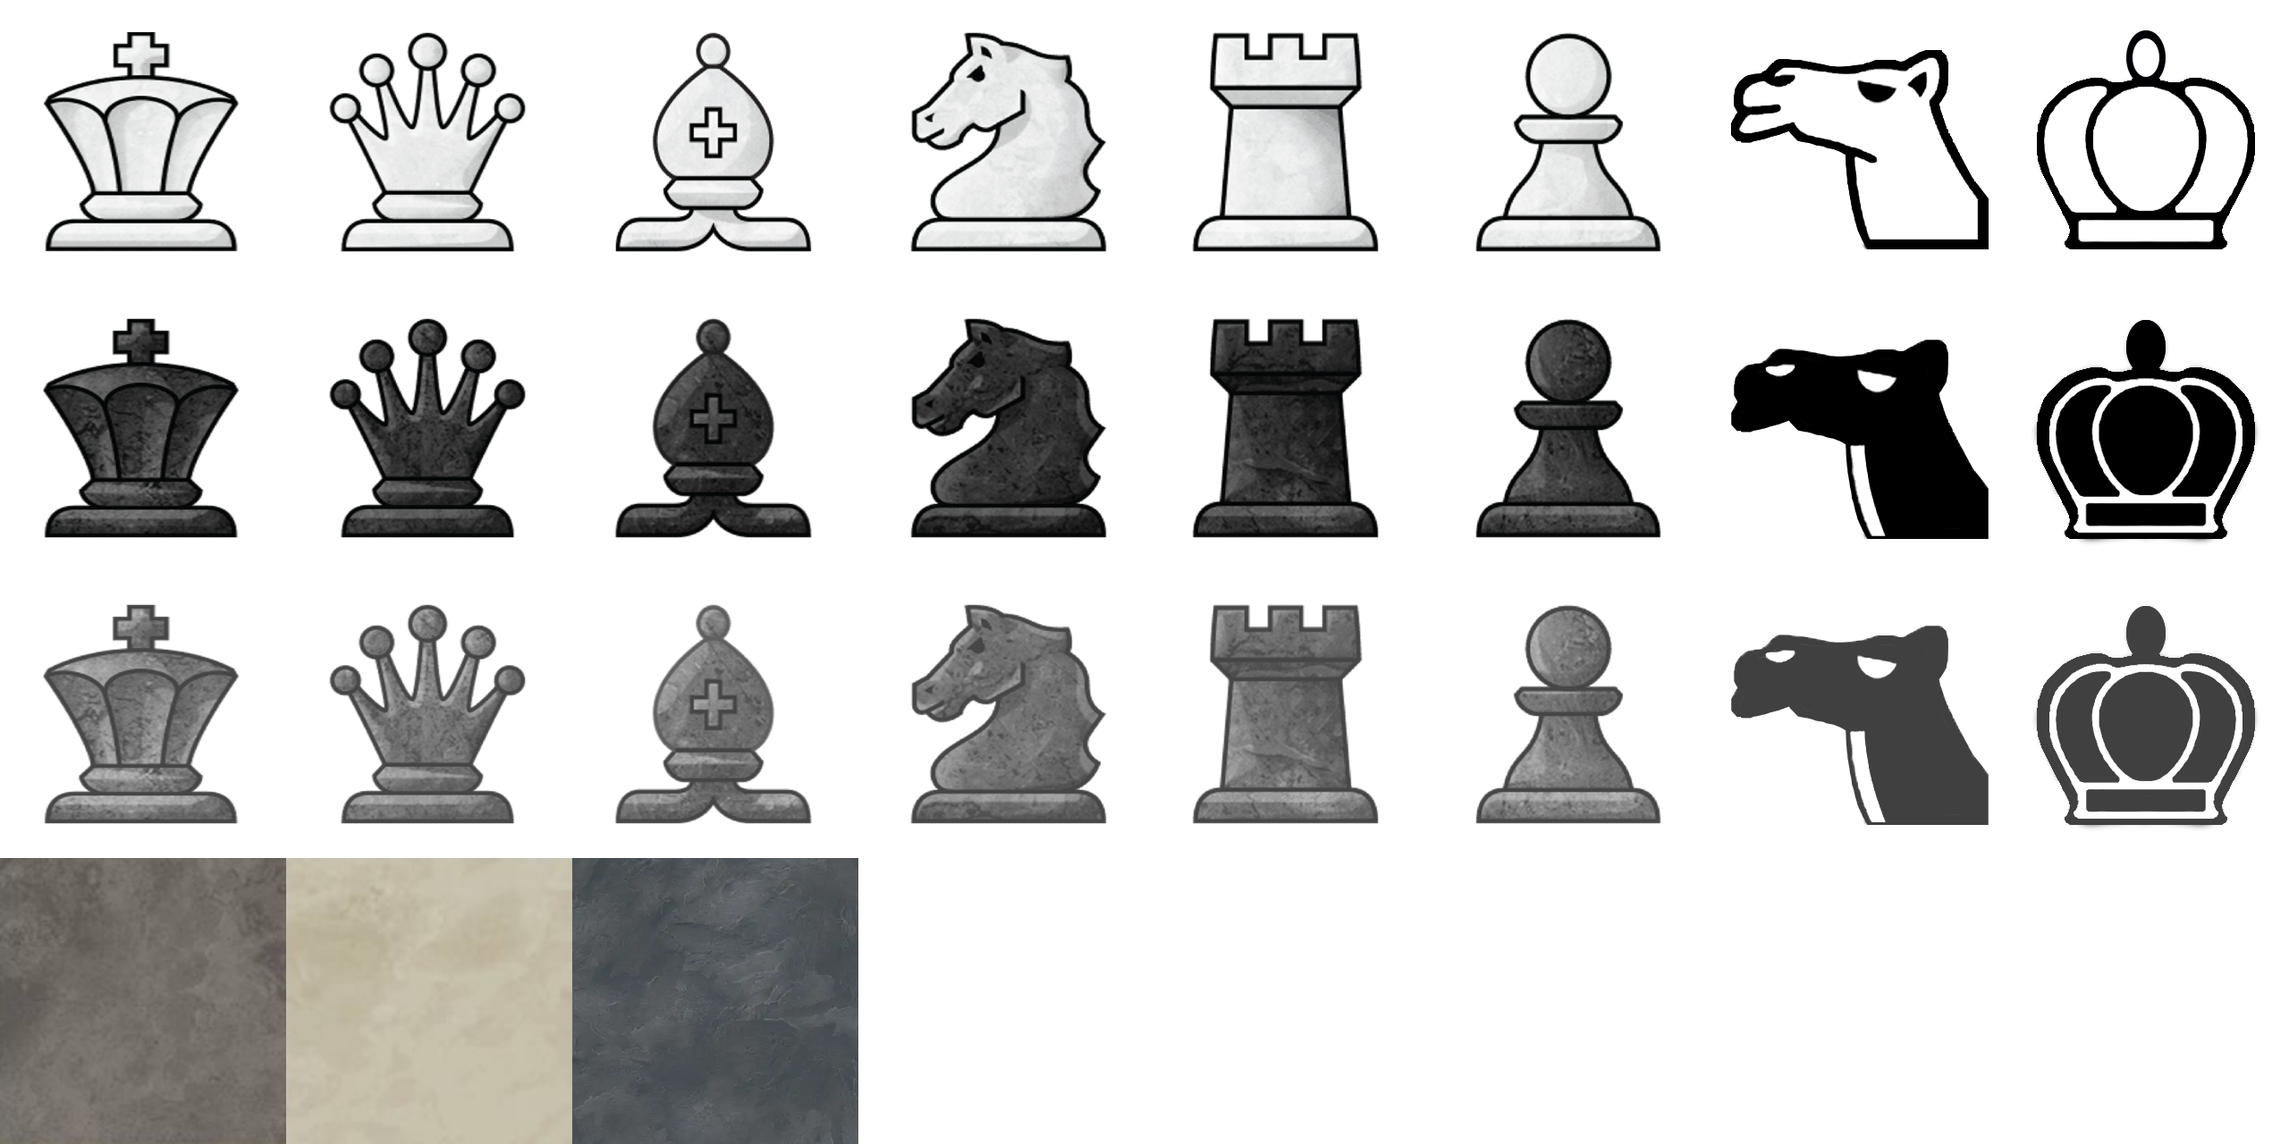
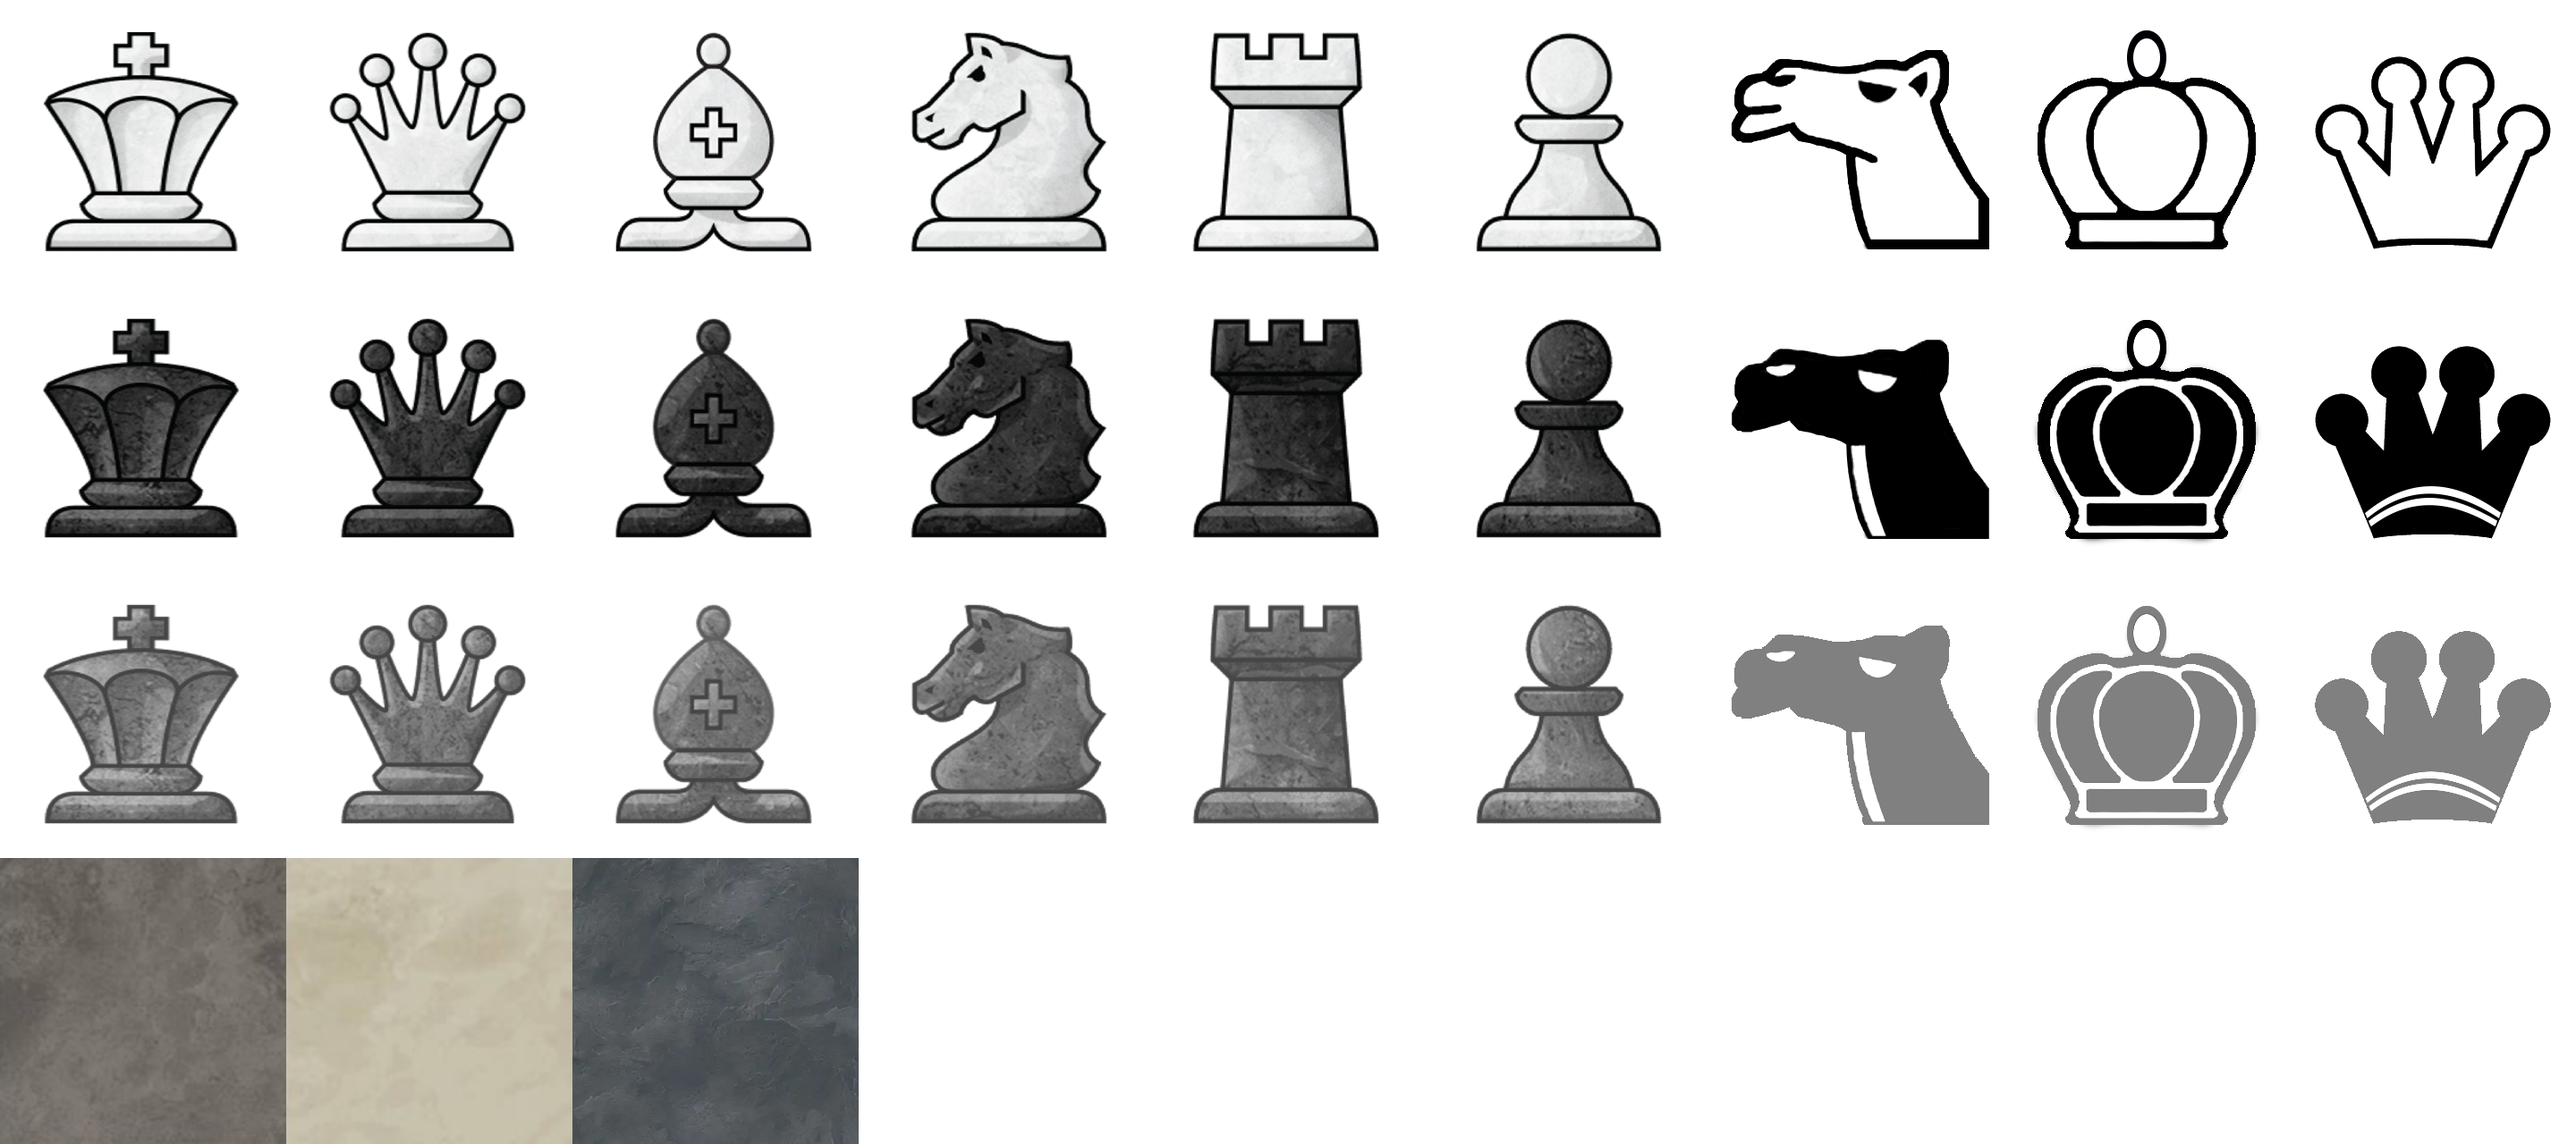
add princess

diff --git a/model/Piece.cpp b/model/Piece.cpp
@@ -47,6 +47,9 @@ std::vector<gf::Vector2i> Piece::getMoves (gf::Vector2i pos) {
 		case ChessPiece::PRINCE:
 			newpos = getMovePrince(pos);
 			break;
+		case ChessPiece::PRINCESS:
+			newpos = getMovePrincess(pos);
+			break;
 		default:
 			break;
 	}
@@ -90,10 +93,10 @@ std::vector<gf::Vector2i> Piece::getMoveKnight (gf::Vector2i pos) {
 	return newpos;
 }
 
-std::vector<gf::Vector2i> Piece::getMoveBishop (gf::Vector2i pos) {
+std::vector<gf::Vector2i> Piece::getMoveBishop (gf::Vector2i pos,int nb) {
 	std::vector<gf::Vector2i> newpos;
-	for (int i = -8; i <= 8; i++) {
-		for (int j = -8; j <= 8; j++) {
+	for (int i = -nb; i <= nb; i++) {
+		for (int j = -nb; j <= nb; j++) {
 			if (abs(i) == abs(j) && i != 0 ) {
 				if (i + pos.x >= 0 && i + pos.x < 8 && j + pos.y >= 0 && j + pos.y < 8) {
 					newpos.push_back(gf::Vector2i(i + pos.x, j + pos.y));
@@ -113,12 +116,15 @@ std::vector<gf::Vector2i> Piece::getMoveQueen (gf::Vector2i pos) {
 	return newpos;
 }
 
-std::vector<gf::Vector2i> Piece::getMoveRook (gf::Vector2i pos) {
+std::vector<gf::Vector2i> Piece::getMoveRook (gf::Vector2i pos, int nb) {
 	std::vector<gf::Vector2i> newpos;
 	int ligne = pos.y;
 	int col = pos.x;
 
 	for (int i = 0 ; i < 8 ; ++i) {
+	/*	if(i < col-nb || i > col+nb || i < ligne-nb || i > ligne-nb){
+			continue;
+		}*/
 		if(col != i) {
 			newpos.push_back(gf::Vector2i(i, ligne));
 		}
@@ -174,6 +180,15 @@ std::vector<gf::Vector2i> Piece::getMovePrince (gf::Vector2i pos) {
 	return newpos;
 }
 
+std::vector<gf::Vector2i> Piece::getMovePrincess (gf::Vector2i pos) {
+	std::vector<gf::Vector2i> newpos;
+	std::vector<gf::Vector2i> bishop = getMoveBishop(pos,2);
+	std::vector<gf::Vector2i> rook = getMoveRook(pos,2);
+	newpos.insert(newpos.end(), rook.begin(), rook.end());
+	newpos.insert(newpos.end(), bishop.begin(), bishop.end());
+	return newpos;
+}
+
 std::vector<gf::Vector2i> Piece::getCasesPass (gf::Vector2i posStart, gf::Vector2i posEnd) {
 	assert(posStart.x >= 0);
 	assert(posStart.y >= 0);
@@ -206,6 +221,9 @@ std::vector<gf::Vector2i> Piece::getCasesPass (gf::Vector2i posStart, gf::Vector
 			break;
 		case ChessPiece::PRINCE:
 			newpos = getCasesPassPrince(posStart, posEnd);
+			break;
+		case ChessPiece::PRINCESS:
+			newpos = getCasesPassPrincess(posStart, posEnd);
 			break;
 		default:
 			break;
@@ -302,5 +320,18 @@ std::vector<gf::Vector2i> Piece::getCasesPassCamel (gf::Vector2i posStart, gf::V
 std::vector<gf::Vector2i> Piece::getCasesPassPrince (gf::Vector2i posStart, gf::Vector2i posEnd) {
 	std::vector<gf::Vector2i> newpos;
 	newpos.push_back(posEnd);
+	return newpos;
+}
+
+std::vector<gf::Vector2i> Piece::getCasesPassPrincess (gf::Vector2i posStart, gf::Vector2i posEnd) {
+	std::vector<gf::Vector2i> newpos;
+	if(posStart.y != posEnd.y && posStart.x != posEnd.x) {
+		std::vector<gf::Vector2i> bishop = getCasesPassBishop(posStart, posEnd);
+		newpos.insert(newpos.end(), bishop.begin(), bishop.end());
+	}else {
+		std::vector<gf::Vector2i> rook = getCasesPassRook(posStart, posEnd);
+		newpos.insert(newpos.end(), rook.begin(), rook.end());
+	}
+
 	return newpos;
 }

diff --git a/model/Plateau.cpp b/model/Plateau.cpp
@@ -36,20 +36,30 @@ Plateau::Plateau()
 		}
 	}
 
+	state[5 * 8 + 3].piece = Piece(ChessColor::WHITE, ChessPiece::PRINCESS);
+	state[2 * 8 + 3].piece = Piece(ChessColor::BLACK, ChessPiece::PRINCESS);
+
+	state[5 * 8 + 4].piece = Piece(ChessColor::WHITE, ChessPiece::PRINCE);
+	state[2 * 8 + 4].piece = Piece(ChessColor::BLACK, ChessPiece::PRINCE);
+
+	state[5 * 8 + 5].piece = Piece(ChessColor::WHITE, ChessPiece::CAMEL);
+	state[2 * 8 + 5].piece = Piece(ChessColor::BLACK, ChessPiece::CAMEL);
+
 	state[1 * 8 + 0].piece = Piece(ChessColor::WHITE, ChessPiece::PAWN);
+	state[6 * 8 + 0].piece = Piece(ChessColor::BLACK, ChessPiece::PAWN);
 	allPositions.push_back(getFen());
 	prettyPrint();
 }
 
 std::string Plateau::getSymbol(ChessColor c, ChessPiece p) {
 	std::vector<std::string> blacks = {
-		"♚", "♛", "♝", "♞", "♜", "♟", "🨇", "🨏"
+		"♚", "♛", "♝", "♞", "♜", "♟", "🨇", "🨏", " "
 	};
 	std::vector<std::string> whites = {
-		"♔", "♕", "♗", "♘", "♖", "♙", "🨆", "🨉"
+		"♔", "♕", "♗", "♘", "♖", "♙", "🨆", "🨉", " "
 	};
 	std::vector<std::string> neutral = {
-		"🨀", "🨁", "🨃", "🨄", "🨂", "🨅", "🨈", "🨏"
+		"🨀", "🨁", "🨃", "🨄", "🨂", "🨅", "🨈", "🨏", " "
 	};
 
 	if (c == ChessColor::WHITE) {
@@ -489,9 +499,9 @@ void Plateau::tmp(std::vector<gf::Vector2i> a) {
 
 std::string Plateau::getFen () {
 	std::string fen = "";
-	std::vector<std::string> white = { "K", "Q", "B", "N", "R", "P", "C", "I" };
-	std::vector<std::string> black = { "k", "q", "b", "n", "r", "p", "c", "i" };
-	std::vector<std::string> neutral = { "Z", "E", "T", "Y", "U", "J", "V", "X" };
+	std::vector<std::string> white = { "K", "Q", "B", "N", "R", "P", "C", "I", "Ԁ" };
+	std::vector<std::string> black = { "k", "q", "b", "n", "r", "p", "c", "i", "d" };
+	std::vector<std::string> neutral = { "Z", "E", "T", "Y", "U", "J", "V", "X", "A" };
 
 	int empty_case = 0;
 	for (auto & c : state) {

diff --git a/client/Scene/GameScene.cpp b/client/Scene/GameScene.cpp
@@ -56,14 +56,21 @@ GameScene::GameScene(GameHub& game, Network &network)
 
 	gf::Coordinates coordsWidget({500,500});
 	auto setupButton = [&] (gf::TextButtonWidget& button, auto callback) {
-		m_endTurn.setDefaultTextColor(gf::Color::Black);
+		m_endTurn.setDefaultTextColor(gf::Color::fromRgba32(212,30,27,255));
 		m_endTurn.setDefaultBackgroundColor(gf::Color::Gray(0.7f));
-		m_endTurn.setSelectedTextColor(gf::Color::Black);
-		m_endTurn.setSelectedBackgroundColor(gf::Color::Green);
+		m_endTurn.setDefaultBackgroundOutlineColor(gf::Color::Gray(0.7f)); 
+
+		m_endTurn.setSelectedTextColor(gf::Color::fromRgba32(212,30,27,255));
+		m_endTurn.setSelectedBackgroundColor(gf::Color::Gray(0.7f));
+		m_endTurn.setSelectedBackgroundOutlineColor(gf::Color::Gray(0.5f));
+		
 		m_endTurn.setDisabledTextColor(gf::Color::Black);
-		m_endTurn.setDisabledBackgroundColor(gf::Color::Green);
-		m_endTurn.setPosition( coordsWidget.getRelativePoint({ 0.6f, 0.25f }));
-		m_endTurn.setAnchor(gf::Anchor::TopLeft);
+		m_endTurn.setDisabledBackgroundColor(gf::Color::Gray(0.7f));
+		m_endTurn.setDisabledBackgroundOutlineColor(gf::Color::Red); 
+
+		m_endTurn.setRadius(5.f);
+		m_endTurn.setBackgroundOutlineThickness(4.f);
+		m_endTurn.setPosition( coordsWidget.getRelativePoint({ 0.755f, 0.25f }));
 		m_endTurn.setAlignment(gf::Alignment::Center);
 		m_endTurn.setCallback(callback);
 		m_widgets.addWidget(m_endTurn);

diff --git a/model/Piece.hpp b/model/Piece.hpp
@@ -23,12 +23,13 @@ class Piece  {
 
 		std::vector<gf::Vector2i> getMovePawn (gf::Vector2i pos);
 		std::vector<gf::Vector2i> getMoveKnight (gf::Vector2i pos);
-		std::vector<gf::Vector2i> getMoveBishop (gf::Vector2i pos);
+		std::vector<gf::Vector2i> getMoveBishop (gf::Vector2i pos,int nb = 8);
 		std::vector<gf::Vector2i> getMoveQueen (gf::Vector2i pos);
-		std::vector<gf::Vector2i> getMoveRook (gf::Vector2i pos);
+		std::vector<gf::Vector2i> getMoveRook (gf::Vector2i pos,int nb = 8);
 		std::vector<gf::Vector2i> getMoveKing (gf::Vector2i pos);
 		std::vector<gf::Vector2i> getMoveCamel (gf::Vector2i pos);
 		std::vector<gf::Vector2i> getMovePrince (gf::Vector2i pos);
+		std::vector<gf::Vector2i> getMovePrincess (gf::Vector2i pos);
 
 		std::vector<gf::Vector2i> getCasesPass (gf::Vector2i posStart, gf::Vector2i posEnd);
 
@@ -40,6 +41,7 @@ class Piece  {
 		std::vector<gf::Vector2i> getCasesPassKing (gf::Vector2i posStart, gf::Vector2i posEnd);
 		std::vector<gf::Vector2i> getCasesPassCamel (gf::Vector2i posStart, gf::Vector2i posEnd);
 		std::vector<gf::Vector2i> getCasesPassPrince (gf::Vector2i posStart, gf::Vector2i posEnd);
+		std::vector<gf::Vector2i> getCasesPassPrincess (gf::Vector2i posStart, gf::Vector2i posEnd);
 
 	protected:
 		ChessColor color;

diff --git a/client/Entity/TableBoardEntity.cpp b/client/Entity/TableBoardEntity.cpp
@@ -113,10 +113,10 @@ void TableBoardEntity::render(gf::RenderTarget &target, const gf::RenderStates &
 		sprite.setTexture(texture, gf::RectF::fromPositionSize({ (1.f / numberPiece) * i, j }, { (1.f / numberPiece), 0.25f }));
 		
 		if(pi.getColor() == ChessColor::WHITE) {
-			sprite.setPosition(coords.getRelativePoint({-0.43f - 0.027f * (tabW[(int)i]%4), -0.255f + (i-1) * 0.084f + 0.025f * (tabW[(int)i]/4)}));
+			sprite.setPosition(coords.getRelativePoint({-0.43f - 0.027f * (tabW[(int)i]%4), -0.255f + (i-2) * 0.084f + 0.025f * (tabW[(int)i]/4)}));
 			tabW[(int)i]+=1;
 		}else {
-			sprite.setPosition(coords.getRelativePoint({0.35f + 0.027f * (tabB[(int)i]%4), -0.255f + (i-1) * 0.084f + 0.025f * (tabB[(int)i]/4)}));
+			sprite.setPosition(coords.getRelativePoint({0.35f + 0.027f * (tabB[(int)i]%4), -0.255f + (i-2) * 0.084f + 0.025f * (tabB[(int)i]/4)}));
 			tabB[(int)i]+=1;
 		}
 		

diff --git a/model/Deck.hpp b/model/Deck.hpp
@@ -5,6 +5,7 @@
 #include <fstream>
 
 #include "Card.hpp"
+#include "CardFunction.hpp"
 
 #define CARDS_DESCRIPTIONDIR "../data/"
 
@@ -26,8 +27,7 @@ class Deck{
 		void swap(Card &a, Card &b);
 		void shuffle();
 		
-		void drop(Card m_card);
-
+		void drop(Card m_card);		
 
 };
 

diff --git a/client/Scene/DownloadScene.cpp b/client/Scene/DownloadScene.cpp
@@ -7,7 +7,7 @@ DownloadScene::DownloadScene(GameHub& game)
 , m_game(game)
 , m_escapeAction("Escape")
 {
-	setClearColor(gf::Color::Red);	
+	setClearColor(gf::Color::Black);	
 	m_escapeAction.addKeycodeKeyControl(gf::Keycode::Escape);
 	addAction(m_escapeAction);
 

diff --git a/client/client.cpp b/client/client.cpp
@@ -17,7 +17,7 @@ int main(int argc, char* argv[]) {
 		gf::SharedGraphics glContext(hub.getWindow());
 		hub.loadingDownloadAssets();
 		hub.loadingAssets(network);
-	});
+	});	
 
 	loading.detach();
 

diff --git a/model/Chess.hpp b/model/Chess.hpp
@@ -29,7 +29,8 @@ enum class ChessPiece {
 	PAWN = 5,
 	CAMEL = 6 ,
 	PRINCE = 7,
-	MAX = PRINCE
+	PRINCESS = 8,
+	MAX = PRINCESS
 };
 	
 enum class ChessColor { 
